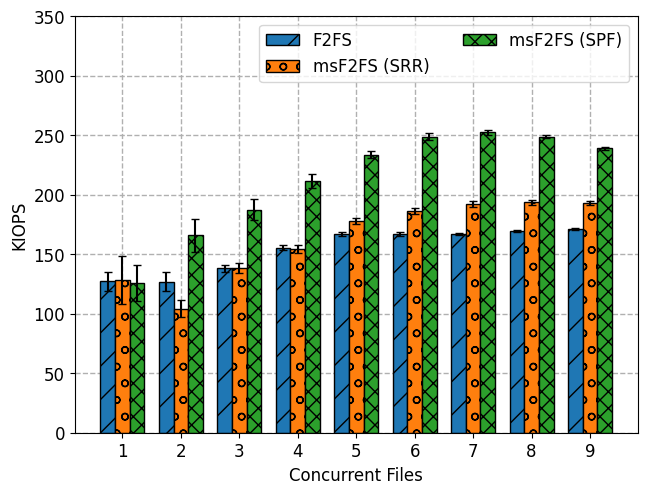
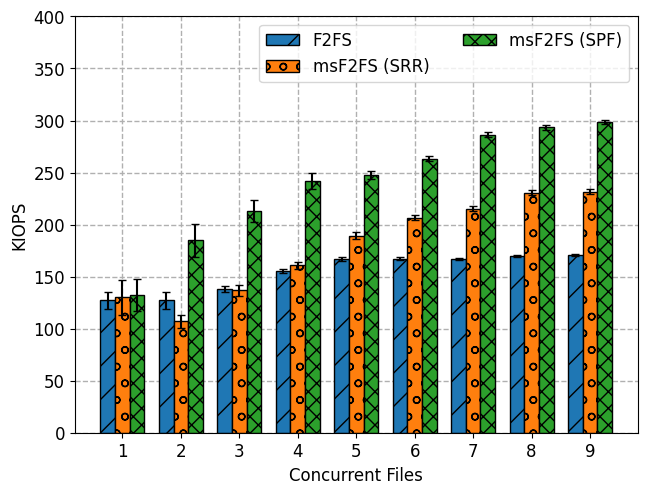
Fig update

diff --git a/msF2FS-throughput/plot.py b/msF2FS-throughput/plot.py
@@ -165,7 +165,7 @@ def plot_throughput():
     ax.legend(loc='best',ncol=2)
     ax.xaxis.set_ticks(x)
     ax.xaxis.set_ticklabels(np.arange(1,10))
-    ax.set_ylim(bottom=0,top=350)
+    ax.set_ylim(bottom=0,top=400)
     ax.set_ylabel('KIOPS')
     ax.set_xlabel('Concurrent Files')
     plt.savefig(f'figs/msf2fs-throughput.pdf', bbox_inches='tight')
